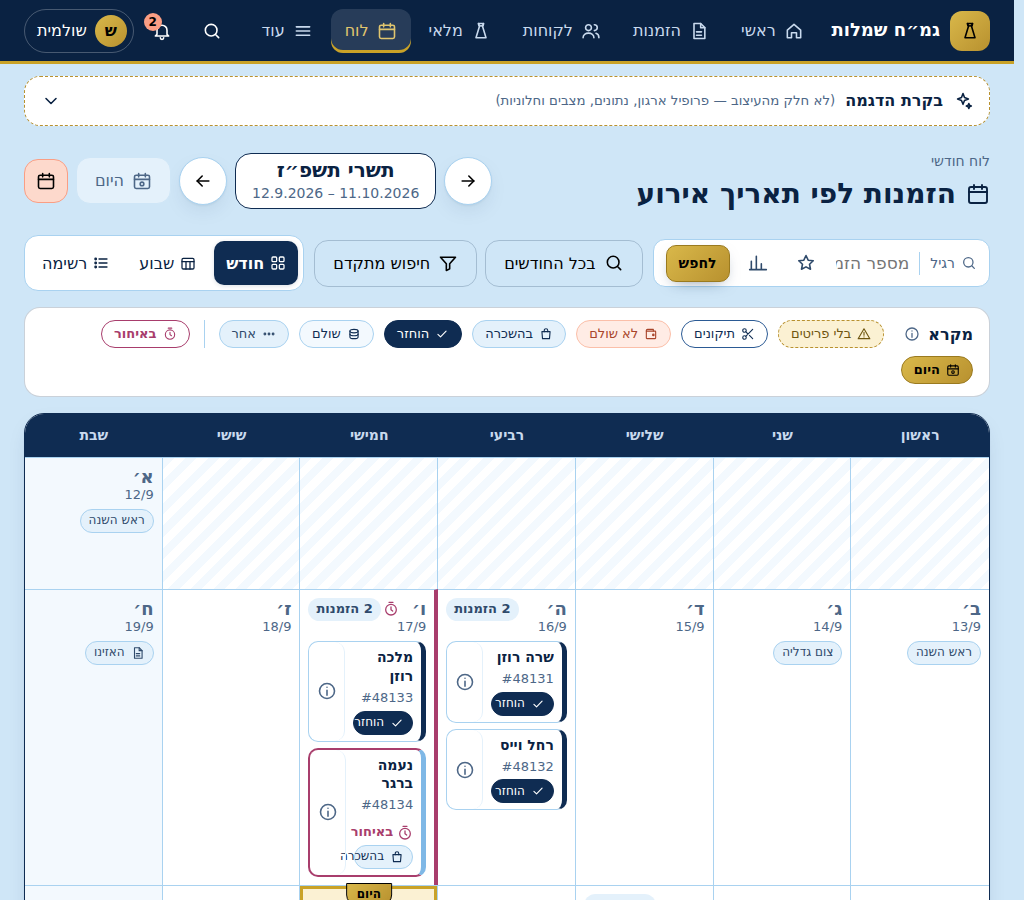
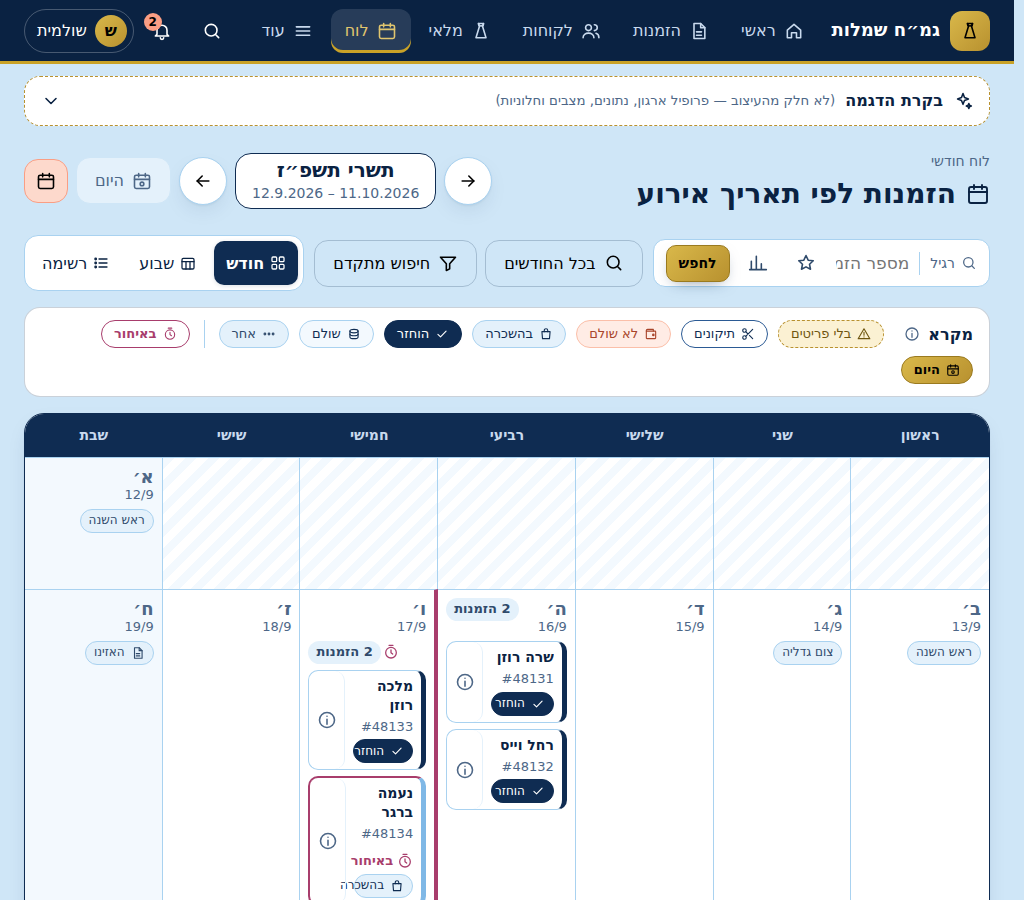
docs(redesign-v3): A4/A5 prototypes — QA fixes, verify scripts, screenshots
Fix cell-header overlap, singular counts, chat overflow at 360 (sr-only escaping
a scrolling table), email chip regex, chart axis label direction, gold bar
outline; add headless verify scripts and record what was and wasn't checked.

Changed region(s): [[0.2812, 0.6533, 0.4375, 1.0], [0.5625, 0.9644, 0.6562, 1.0]]

diff --git a/docs/redesign-v3/prototypes/archetype-board.html b/docs/redesign-v3/prototypes/archetype-board.html
@@ -558,9 +558,10 @@ html[data-long] .tab .tl{overflow:hidden;text-overflow:ellipsis}
 /* רוחב רחב לארכיטיפ לוח */
 .page.wide{max-width:var(--v3-w-wide)}
 /* שדה צף בתחתית (שאלת המשך) */
-.pill-input{display:flex;align-items:center;gap:8px;min-height:56px;padding:6px 6px 6px 8px;border:2px solid var(--v3-frame);border-radius:var(--v3-r-pill);background:var(--v3-surface);box-shadow:var(--v3-el-3)}
+.pill-input{display:flex;align-items:center;gap:8px;min-height:56px;padding:6px 8px;border:2px solid var(--v3-frame);border-radius:var(--v3-r-pill);background:var(--v3-surface);box-shadow:var(--v3-el-3)}
 .pill-input input{flex:1;min-width:0;border:0;outline:0;background:transparent;font-size:var(--v3-fs-md);padding-inline:12px}
 .pill-input:focus-within{box-shadow:0 0 0 4px var(--v3-gold-300),var(--v3-el-3)}
+.tbl-wrap{position:relative} /* sr-only בתוך טבלה גוללת לא בורח למסמך */
 
 
 /* =========== A4 לוח / ציר זמן =========== */
@@ -751,6 +752,9 @@ details.legend-wrap summary::-webkit-details-marker{display:none}
 .cal-dow .short{display:none}
 @media (max-width:767px){ .cal-dow .short{display:inline} }
 .cal:not(.week) .day.today{padding-top:22px}
+
+.d-head{flex-wrap:wrap}
+.d-tools{flex-wrap:wrap;justify-content:flex-end;row-gap:2px}
 
 </style>
 </head>
@@ -1228,6 +1232,7 @@ function visibleOrders(){
   });
 }
 function byDay(list){ const m = {}; list.forEach(o => (m[o.day] = m[o.day] || []).push(o)); return m; }
+const nOrders = n => n === 1 ? 'הזמנה אחת' : `<bdi>${n}</bdi> הזמנות`;
 const advCount = () => Object.values(S.adv).filter(Boolean).length;
 
 /* ---------- רינדור ---------- */
@@ -1328,7 +1333,7 @@ function dayCell(x, i, orders, clamp){
     <div class="d-head"><span class="d-num"><b>${GEM[x.d - 1]}</b><small><bdi dir="ltr">${fmtG(x.g)}</bdi></small></span>
       ${orders.length ? `<span class="day-dot" aria-hidden="true">${orders.length}</span>` : ''}
       <span class="d-tools">${late ? `<span class="late-flag" data-tip="יש כאן הזמנה באיחור">${ic('late','sm')}<span class="sr-only">יש הזמנה באיחור</span></span>` : ''}
-      ${orders.length ? `<span class="d-count"><bdi>${orders.length}</bdi> הזמנות</span>` : ''}
+      ${orders.length ? `<span class="d-count">${nOrders(orders.length)}</span>` : ''}
       ${orders.length > 2 ? `<button type="button" class="ibtn quiet" data-day="${i}" aria-label="פתיחת כל ההזמנות של היום" data-tip="כל ההזמנות של היום">${ic('expand','sm','pop')}</button>` : ''}
       ${print ? `<button type="button" class="ibtn quiet" data-printday="${i}" aria-label="הדפסת ההזמנות של היום" data-tip="הדפסת ההזמנות של היום">${ic('printer','sm','pop')}</button>` : ''}</span></div>
     ${tags ? `<div class="d-tags">${tags}</div>` : ''}
@@ -1361,7 +1366,7 @@ function agenda(map){
       <div class="ag-h"><div class="ag-date"><b>יום ${DOW[x.dow]}, ${GEM[x.d - 1]} ${MONTHS[x.mi].name}</b><small><bdi dir="ltr">${fmtGFull(x.g)}</bdi>${x.par ? ` · פרשת ${x.par}` : ''}</small></div>
         ${x.hol.map(h => `<span class="chip">${h}</span>`).join('')}
         ${late ? `<span class="chip late">${ic('late')}יש איחור</span>` : ''}
-        ${os.length ? `<span class="d-count"><bdi>${os.length}</bdi> הזמנות</span>` : ''}
+        ${os.length ? `<span class="d-count">${nOrders(os.length)}</span>` : ''}
         ${print ? `<button type="button" class="ibtn quiet" data-printday="${i}" aria-label="הדפסת ההזמנות של היום" data-tip="הדפסת ההזמנות של היום">${ic('printer','sm','pop')}</button>` : ''}
         ${os.length > 2 ? `<button type="button" class="ibtn quiet" data-day="${i}" aria-label="פתיחת היום בחלון עם סינון" data-tip="חלון היום, עם סינון">${ic('expand','sm','pop')}</button>` : ''}</div>
       ${os.length ? `<div class="ag-list">${os.map(o => orderCard(o, true)).join('')}</div>` : `<div class="ag-empty">${ic('info','sm')}אין הזמנות היום.</div>`}</section>`;
@@ -1416,7 +1421,7 @@ function dayDlg(i){
   const x = DAYS[i]; let f = '';
   const draw = d => { const os = (byDay(visibleOrders())[i] || []).filter(o => !f || o.customerName.toLowerCase().includes(f.toLowerCase()) || o.customerPhone.includes(f) || String(o.orderId).includes(f));
     d.querySelector('#dayList').innerHTML = os.length ? os.map(o => orderCard(o, true)).join('') : `<div class="empty">${ic('search','lg')}<b>אין הזמנה שמתאימה</b><span>אפשר לחפש לפי שם, טלפון או מספר הזמנה.</span></div>`;
-    d.querySelector('#dayCnt').innerHTML = `${num(os.length)} הזמנות`; };
+    d.querySelector('#dayCnt').innerHTML = nOrders(os.length); };
   const print = cfg.flag('enable_batch_print_prep');
   openLayer({ type:'form', size:'m', html:`${dlgHead('cal', `יום ${DOW[x.dow]}, ${GEM[x.d - 1]} ${MONTHS[x.mi].name}`, `<bdi dir="ltr">${fmtGFull(x.g)}</bdi> · <span id="dayCnt"></span>`, 'סגירה')}
     <div class="dlg-b"><div class="search" style="margin-bottom:var(--v3-sp-4)">${ic('search')}<input id="dayQ" aria-label="סינון ההזמנות של היום" placeholder="שם, טלפון או מספר הזמנה" data-autofocus><button type="button" class="ibtn quiet" data-clr aria-label="ניקוי הסינון" hidden>${ic('x','sm')}</button></div>
@@ -1523,7 +1528,7 @@ function rentalDlg(o){
       <span class="acts"><span class="chip ${i.isReturned ? 'done' : i.isTaken ? 'info' : i.pending ? 'pend' : ''}">${itStatus(i)}</span>
       ${i.isReturned ? `<button type="button" class="btn sm quiet" data-undo-ret="${k}">${ic('undo','sm')}ביטול ההחזרה</button>` : i.isTaken ? `<button type="button" class="btn sm quiet" data-undo-rent="${k}">${ic('undo','sm')}ביטול ההשכרה</button>` : ''}
       <button type="button" class="ibtn quiet" data-hist="${k}" aria-label="היסטוריית הפריט" data-tip="היסטוריית הפריט">${ic('history','sm')}</button></span></div>`).join('') : `<div class="empty">${ic('bag','lg')}<b>אין פריטים בהזמנה</b></div>`;
-    const c = d.querySelector('[data-confirm]'); c.disabled = !pendingN(); c.innerHTML = `${ic('check','','pop')}אישור ההשכרה${pendingN() ? ` (<bdi>${pendingN()}</bdi>)` : ''}`;
+    const c = d.querySelector('[data-confirm]'); c.disabled = !pendingN(); c.innerHTML = `${ic('check','','pop')}אישור ההשכרה${pendingN() ? ` · <bdi>${pendingN()}</bdi> פריטים` : ''}`;
     d.querySelector('[data-discard]').hidden = !pendingN();
   };
   const html = `${dlgHead('box', `כרטיס השכרה · הזמנה <bdi>#${o.orderId}</bdi>`, `${esc(o.customerName)} · אירוע ${hebLabel(DAYS[o.day])}`, 'סגירה')}

diff --git a/docs/redesign-v3/prototypes/archetype-dashboard.html b/docs/redesign-v3/prototypes/archetype-dashboard.html
@@ -558,9 +558,10 @@ html[data-long] .tab .tl{overflow:hidden;text-overflow:ellipsis}
 /* רוחב רחב לארכיטיפ לוח */
 .page.wide{max-width:var(--v3-w-wide)}
 /* שדה צף בתחתית (שאלת המשך) */
-.pill-input{display:flex;align-items:center;gap:8px;min-height:56px;padding:6px 6px 6px 8px;border:2px solid var(--v3-frame);border-radius:var(--v3-r-pill);background:var(--v3-surface);box-shadow:var(--v3-el-3)}
+.pill-input{display:flex;align-items:center;gap:8px;min-height:56px;padding:6px 8px;border:2px solid var(--v3-frame);border-radius:var(--v3-r-pill);background:var(--v3-surface);box-shadow:var(--v3-el-3)}
 .pill-input input{flex:1;min-width:0;border:0;outline:0;background:transparent;font-size:var(--v3-fs-md);padding-inline:12px}
 .pill-input:focus-within{box-shadow:0 0 0 4px var(--v3-gold-300),var(--v3-el-3)}
+.tbl-wrap{position:relative} /* sr-only בתוך טבלה גוללת לא בורח למסמך */
 
 
 /* =========== A5 בית / סיכומים =========== */
@@ -654,15 +655,19 @@ html[data-long] .tab .tl{overflow:hidden;text-overflow:ellipsis}
 @keyframes grow{from{transform:scaleX(0)}}
 .vchart{width:100%;height:auto;display:block;overflow:visible}
 .vchart .bar{fill:var(--v3-navy-800)}
-.vchart .bar.now{fill:var(--v3-gold-500)}
+.vchart .bar.now{fill:var(--v3-gold-500);stroke:var(--v3-navy-900);stroke-width:1.5} /* ניגודיות לא-טקסט 3:1 */
 .vchart .bar:hover{fill:var(--v3-navy-500)}
 .vchart .grid{stroke:var(--v3-line-soft);stroke-width:1}
 .vchart .axis{fill:var(--v3-ink-3);font-size:12px;font-family:var(--v3-font)}
 .chart-foot{display:flex;gap:8px;align-items:center;justify-content:space-between;flex-wrap:wrap;margin-top:10px;font-size:var(--v3-fs-sm);color:var(--v3-ink-3)}
 .legend-dot{display:inline-flex;align-items:center;gap:6px}
-.legend-dot i{width:12px;height:12px;border-radius:3px;background:var(--v3-gold-500);display:inline-block}
+.legend-dot i{width:12px;height:12px;border-radius:3px;background:var(--v3-gold-500);border:1.5px solid var(--v3-navy-900);display:inline-block}
 .denied{max-width:560px;margin:var(--v3-sp-7) auto}
 @media (max-width:639px){ .sbox-row{flex-direction:column} .sbox .btn.primary{width:100%} .sbox{padding:var(--v3-sp-3)} .kpi .k-v{font-size:var(--v3-fs-2xl)} }
+.home > *,.chat,.bub,.card{min-width:0}
+.bub .tbl-wrap{max-width:100%}
+.cp-chip{max-width:100%;overflow:hidden;text-overflow:ellipsis;white-space:nowrap}
+.vchart text{direction:ltr;unicode-bidi:isolate} /* ערכי ציר מימין לעמודות, לא מעליהן */
 
 </style>
 </head>
@@ -1097,7 +1102,7 @@ function resultsView(){
 }
 /* DB-33: מייל/טלפון → תגית העתקה; "הזמנה N" / "לקוח X" → קישור */
 function richText(t){
-  return esc(t).replace(/([\w.+-]+@[\w-]+\.[\w.]+)|(0(?:5\d|7\d|[2-4]|[89])-?\d{3}-?\d{4})/g, m => `<button type="button" class="cp-chip" data-copy="${m}" aria-label="העתקת ${m}">${ic('copy','sm')}${m}</button>`)
+  return esc(t).replace(/([\w.+-]+@[\w-]+(?:\.[\w-]+)+)|(0(?:5\d|7\d|[2-4]|[89])-?\d{3}-?\d{4})/g, m => `<button type="button" class="cp-chip" data-copy="${m}" aria-label="העתקת ${m}">${ic('copy','sm')}${m}</button>`)
     .replace(/הזמנה (\d+)/g, (m, n) => `<a class="lnk-chip" href="#" data-open="הזמנה">${ic('file','sm')}הזמנה <bdi>${n}</bdi></a>`);
 }
 function chatView(){

diff --git a/docs/redesign-v3/prototypes/README.md b/docs/redesign-v3/prototypes/README.md
@@ -150,3 +150,15 @@
 | DB-58 | אין הבדל לפי ארגון בעמוד הזה (פרופיל "קיצוני" = סכומים של 7 ספרות) |
 | DB-59, DB-60 | מחוץ לתחום — קוד בלי שימוש |
 | DB-61 | בקרה → "מקום שמור ל'דורש טיפול'" — מסגרת מקווקו בלי מספרים (BDQ-D1) |
+
+## מה נבדק בפועל ב-A4/A5 (ומה לא) — 2026-09-24
+- **הורץ** (Chromium headless דרך Playwright, `verify-board.cjs` / `verify-dashboard.cjs`), ב-360/768/1024/1440:
+  - טעינה בלי שגיאות JS (ההודעה היחידה בקונסול: הגופן מ-Google Fonts נחסם ברשת הסביבה).
+  - אין גלילה אופקית של המסמך (`scrollWidth ≤ clientWidth`), גם בפרופיל "קיצוני", יום עמוס (14 הזמנות), תצוגות שבוע/רשימה, שיחה חכמה עם טבלה, וסיכום עם סכומים של 7 ספרות. באג שנמצא ותוקן: `sr-only` בתוך טבלה גוללת ברח למסמך ב-360.
+  - שכבות: `data-v3-lock` + `#page` inert בכל חלונית; גלילת עכבר לא מזיזה את העמוד; Esc סוגר רק את העליונה והפוקוס חוזר לכפתור שפתח (ⓘ בכרטיס, אריח KPI, כרטיס בתפריט); שתי שכבות נערמות (כרטיס השכרה + אישור מנהל; כרטיס השכרה + סגירה עם סריקות ממתינות).
+  - מצבי חלונית: צפייה/אישור/קוד = כהה (במתג: בהיר), הזנה (חלון יום, חיפוש מתקדם, השכרה, הגדרה) = בהיר תמיד.
+  - RTL: גליף "החודש הקודם" = חץ ימינה, "הבא" = חץ שמאלה (קריאת `path d`).
+  - לוגיקה: סינון חי בחיפוש מתקדם + שורת "מסונן"; מעבר רגיל↔חכם שומר טקסט; קיצורי דרך לפי תפקיד (מנהלת סניף = 2, ארגון ב׳ = 1) והמצב החכם מוסתר כשה-AI כבוי; הגדרה מהירה בהנהלה ראשית = "אין הרשאה" (פער קיים), במנהלת סניף = שמירה → אישור מנהל.
+- **חושב ידנית (WCAG):** plum על לבן 5.92, ink-3 על gold-100 5.17, rose-700 על rose-100 5.21, on-dark-2 על navy 9.82, שחור על זהב 8.68. העמודה הזהובה בגרף קיבלה קו navy (ניגודיות לא-טקסט).
+- **נבדק בעין** על הצילומים (`screenshots/board/`, `screenshots/dashboard/`): חפיפות בכותרת התא (תוקנו), סמן "היום", גרף בטלפון (תוויות ציר קטנות — הטבלה היא החלופה הקריאה).
+- **לא נבדק:** axe / קורא מסך, Safari/iOS (safe-area, `100dvh`), מקלדת וירטואלית, מגע אמיתי, רוחב 1920, תנועה בהגדרת מערכת (רק מתג ההדמיה), וגופן Rubik (לא נטען בסביבה).
